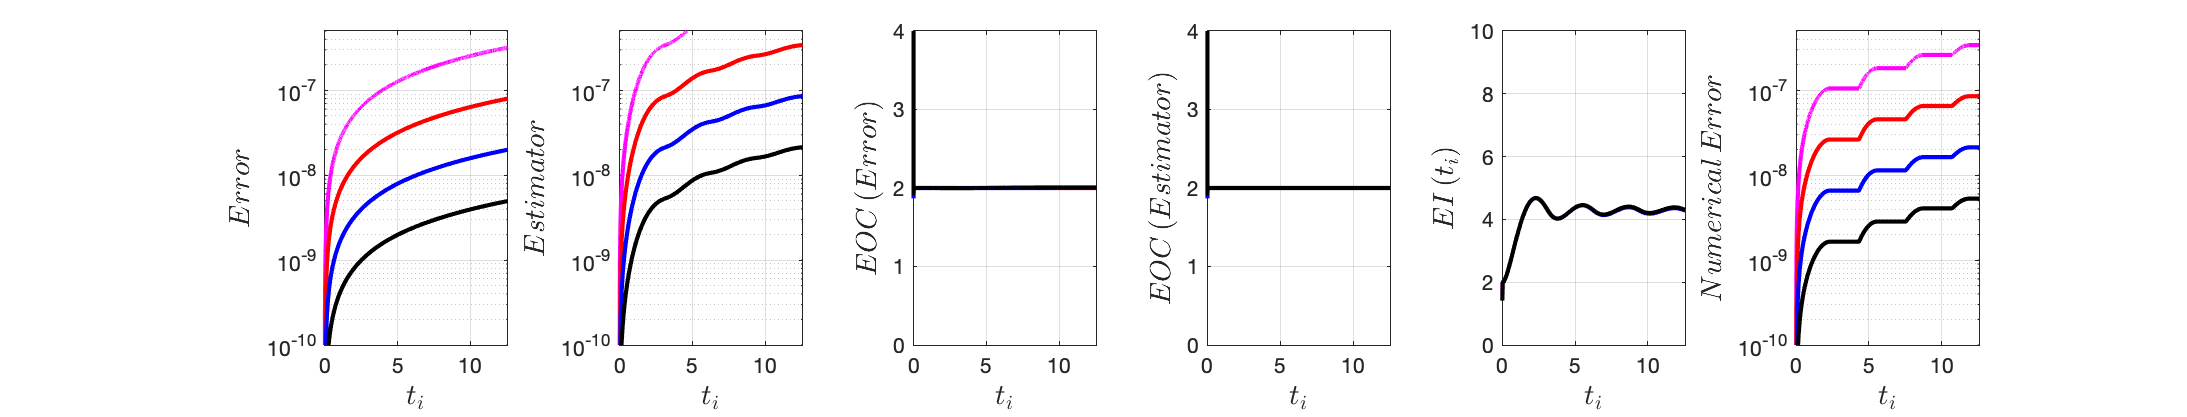
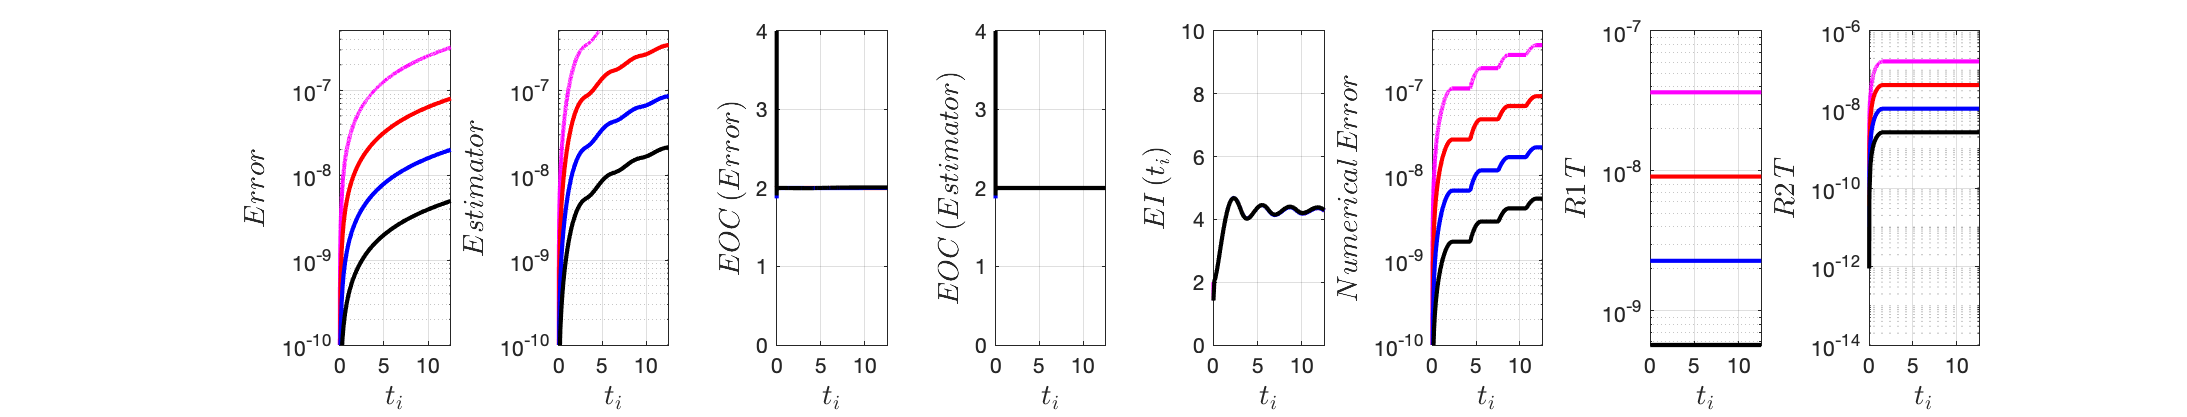
same residuals

diff --git a/temporal_reconstruction_thesis_chapter.tex b/temporal_reconstruction_thesis_chapter.tex
@@ -401,6 +401,15 @@ The reconstructions for $\rec{U}$ and $\rec{V}$ in \cite[\S3.1]{georgoulis2016po
 	\end{equation}
 \end{Defn}
 
+In order to present our reconstructions we  define the space in which they belong. 
+\begin{Defn}[Space of piecewise polynomials]\label{defn_space_pwpoly}
+	Let $\polygs{q}{\qb{t^{n-1},t^n}}{\mathbb{R}}$ denote the space of real-valued polynomials of degree $q$ in the interval $\qb{t^{n-1}, t^n}$.  Then, we define 
+	\begin{equation}
+	\mathbb{V}_q:=\bracegs{w:\qb{0,T}\rightarrow\mathbb{R}: w|_{\qb{t^{n-1},t^n}}\in \polygs{q}{\qb{t^{n-1},t^n}}{\mathbb{R}}}
+	\end{equation}
+	to be the space of piecewise polynomials of degree $q$.
+\end{Defn}
+
 \begin{Defn}[ ]\label{defn_our_rec3}
 	The reconstruction, $\qp{\rec{U},\rec{V}}$ of the numerical solution $\qp{U,V}$ of (\ref{eq_harmonic_discretization}) on a staggered grid consists of the unique functions $\rec{U}\in \mathbb{V}_2$, $\rec{V}\in\mathbb{V}_3$ satisfying
 	\begin{equation}\label{eq_rec3_conds}
@@ -420,19 +429,11 @@ The reconstructions for $\rec{U}$ and $\rec{V}$ in \cite[\S3.1]{georgoulis2016po
 	c_{0,v} &= V^{n-1/2},\\
 	c_{1,v}&=-\rec{U}\qp{t^{n-1/2}}\\
 	c_{2,v}&=\frac{1}{\Delta t}\qp{\rec{U}\qp{t^{n+1/2}}-\rec{U}\qp{t^{n-1/2}}}+\frac{3}{\Delta t^2}\qp{V^{n+1/2}-V^{n-1/2}+\Delta t \rec{U}\qp{t^{n-1/2}}}\\
-	c_{3,v}&=-\frac{1}{\Delta t^2}\qp{\rec{U}\qp{t^{n+1/2}}}-\frac{2}{\Delta t^3}\qp{V^{n+1/2}-V^{n-1/2}+\Delta t \rec{U}\qp{t^{n-1/2}}} 
+	c_{3,v}&=-\frac{1}{\Delta t^2}\qp{\rec{U}\qp{t^{n+1/2}}-\rec{U}\qp{t^{n-1/2}}}-\frac{2}{\Delta t^3}\qp{V^{n+1/2}-V^{n-1/2}+\Delta t \rec{U}\qp{t^{n-1/2}}} 
 	\end{aligned}
 	\end{equation}
 \end{Defn}
 
- In order to present our reconstructions we  define the space in which they belong. 
-  \begin{Defn}[Space of piecewise polynomials]\label{defn_space_pwpoly}
- 	Let $\polygs{q}{\qb{t^{n-1},t^n}}{\mathbb{R}}$ denote the space of real-valued polynomials of degree $q$ in the interval $\qb{t^{n-1}, t^n}$.  Then, we define 
- 	\begin{equation}
- 	\mathbb{V}_q:=\bracegs{w:\qb{0,T}\rightarrow\mathbb{R}: w|_{\qb{t^{n-1},t^n}}\in \polygs{q}{\qb{t^{n-1},t^n}}{\mathbb{R}}}
- 	\end{equation}
- 	to be the space of piecewise polynomials of degree $q$.
- \end{Defn}
  
 \begin{Defn}[ ]\label{defn_our_rec}
 	The reconstruction, $\qp{\rec{U},\rec{V}}$ of the numerical solution $\qp{U,V}$ of (\ref{eq_harmonic_discretization}) consists of the unique functions $\rec{U}\in \mathbb{V}_2$, $\rec{V}\in\mathbb{V}_2$ satisfying
@@ -769,6 +770,7 @@ V^{1/2} &= \frac{1}{\Delta t}\qp{U^1-U^0}.
 */
 \subsection{Test results}\label{sec:num_exp}
 \subsection*{$u_0=0, v_0= 1$}
+\/*
 \begin{figure}[H]
 	\hspace{-3cm}
 	%\centering
@@ -792,11 +794,11 @@ V^{1/2} &= \frac{1}{\Delta t}\qp{U^1-U^0}.
 	\caption{Paper rec. (from left to right) Error $e$ given by (\ref{eq_error_eR}), Estimator $\eta_1$ given by \ref{eq_bound_test}, EOC error, EOC Estimator, Effectivity Index.}
 	\label{fig_all_in_one_paperrec_u0_v10}
 \end{figure}
-
+*/
 \begin{figure}[H]
 	\hspace{-3cm}
 	%\centering
-	\includegraphics[scale=0.55]{fig_LeapFrogplots_1x5_sin_IC_harmonic_u0_v10_paperrec_poly}	
+	\includegraphics[scale=0.55]{fig_LeapFrogplots_1x5_sin_IC_harmonic_u0_v10_paperrec_poly_our_res}	
 	\caption{Polynomial paper rec. (from left to right) Error $e$ given by (\ref{eq_error_eR}), Estimator $\eta_1$ given by \ref{eq_bound_test}, EOC error, EOC Estimator, Effectivity Index.}
 	\label{fig_all_in_one_paperrec_poly_u0_v10}
 \end{figure}
@@ -809,7 +811,7 @@ V^{1/2} &= \frac{1}{\Delta t}\qp{U^1-U^0}.
 	\label{fig_all_in_one_paperrec_poly_tristan_u0_v10}
 \end{figure}
 \subsection*{$u_0=0.1, v_0= 0.9$}
-
+\/*
 \begin{figure}[H]
 	\hspace{-3cm}
 	%\centering
@@ -832,11 +834,12 @@ V^{1/2} &= \frac{1}{\Delta t}\qp{U^1-U^0}.
 	\caption{Paper rec. (from left to right) Error $e$ given by (\ref{eq_error_eR}), Estimator $\eta_1$ given by \ref{eq_bound_test},  EOC error, EOC Estimator, Effectivity Index.}
 	\label{fig_all_in_one_paperrec_u01_v09}
 \end{figure}
+*/
 
 \begin{figure}[H]
 	\hspace{-3cm}
 	%\centering
-	\includegraphics[scale=0.55]{fig_LeapFrogplots_1x5_sin_IC_harmonic_u1_v9_paperrec_poly}	
+	\includegraphics[scale=0.55]{fig_LeapFrogplots_1x5_sin_IC_harmonic_u1_v9_paperrec_poly_our_res}	
 	\caption{Polynomial paper rec. (from left to right) Error $e$ given by (\ref{eq_error_eR}), Estimator $\eta_1$ given by \ref{eq_bound_test},  EOC error, EOC Estimator, Effectivity Index.}
 	\label{fig_all_in_one_paperrec_poly_u01_v09}
 \end{figure}
@@ -850,6 +853,7 @@ V^{1/2} &= \frac{1}{\Delta t}\qp{U^1-U^0}.
 
 
 \subsection*{$u_0=0.2, v_0= 0.8$}
+\/*
 \begin{figure}[H]
 	\hspace{-3cm}
 	%\centering
@@ -872,10 +876,11 @@ V^{1/2} &= \frac{1}{\Delta t}\qp{U^1-U^0}.
 	\caption{Paper rec. (from left to right) Error $e$ given by (\ref{eq_error_eR}), Estimator $\eta_1$ given by \ref{eq_bound_test},   EOC error, EOC Estimator, Effectivity Index.}
 	\label{fig_all_in_one_paperrec_u02_v08}
 \end{figure}
+*/
 \begin{figure}[H]
 	\hspace{-3cm}
 	%\centering
-	\includegraphics[scale=0.55]{fig_LeapFrogplots_1x5_sin_IC_harmonic_u2_v8_paperrec_poly}	
+	\includegraphics[scale=0.55]{fig_LeapFrogplots_1x5_sin_IC_harmonic_u2_v8_paperrec_poly_our_res}	
 	\caption{Polynomial paper rec. (from left to right) Error $e$ given by (\ref{eq_error_eR}), Estimator $\eta_1$ given by \ref{eq_bound_test},   EOC error, EOC Estimator, Effectivity Index.}
 	\label{fig_all_in_one_paperrec_poly_u02_v08}
 \end{figure}
@@ -889,6 +894,7 @@ V^{1/2} &= \frac{1}{\Delta t}\qp{U^1-U^0}.
 \end{figure}
 
 \subsection*{$u_0=0.3, v_0= 0.7$}
+\/*
 \begin{figure}[H]
 	\hspace{-3cm}
 	%\centering
@@ -910,10 +916,11 @@ V^{1/2} &= \frac{1}{\Delta t}\qp{U^1-U^0}.
 	\caption{Paper rec. (from left to right) Error $e$ given by (\ref{eq_error_eR}), Estimator $\eta_1$ given by \ref{eq_bound_test}, EOC error, EOC Estimator, Effectivity Index.}
 	\label{fig_all_in_one_paperrec_u03_v07}
 \end{figure}
+*/
 \begin{figure}[H]
 	\hspace{-3cm}
 	%\centering
-	\includegraphics[scale=0.55]{fig_LeapFrogplots_1x5_sin_IC_harmonic_u3_v7_paperrec_poly}	
+	\includegraphics[scale=0.55]{fig_LeapFrogplots_1x5_sin_IC_harmonic_u3_v7_paperrec_poly_our_res}	
 	\caption{Polynomial paper rec. (from left to right) Error $e$ given by (\ref{eq_error_eR}), Estimator $\eta_1$ given by \ref{eq_bound_test},   EOC error, EOC Estimator, Effectivity Index.}
 	\label{fig_all_in_one_paperrec_polynomial_u03_v07}
 \end{figure}
@@ -927,6 +934,7 @@ V^{1/2} &= \frac{1}{\Delta t}\qp{U^1-U^0}.
 \end{figure}
 
 \subsection*{$u_0=0.4, v_0= 0.6$}
+\/*
 \begin{figure}[H]
 	\hspace{-3cm}
 	%\centering
@@ -948,10 +956,11 @@ V^{1/2} &= \frac{1}{\Delta t}\qp{U^1-U^0}.
 	\caption{Paper rec. (from left to right) Error $e$ given by (\ref{eq_error_eR}), Estimator $\eta_1$ given by \ref{eq_bound_test},  EOC error, EOC Estimator, Effectivity Index.}
 	\label{fig_all_in_one_paperrec_u04_v06}
 \end{figure}
+*/
 \begin{figure}[H]
 	\hspace{-3cm}
 	%\centering
-	\includegraphics[scale=0.55]{fig_LeapFrogplots_1x5_sin_IC_harmonic_u4_v6_paperrec_poly}	
+	\includegraphics[scale=0.55]{fig_LeapFrogplots_1x5_sin_IC_harmonic_u4_v6_paperrec_poly_our_res}	
 	\caption{Polynomial paper rec. (from left to right) Error $e$ given by (\ref{eq_error_eR}), Estimator $\eta_1$ given by \ref{eq_bound_test},  EOC error, EOC Estimator, Effectivity Index.}
 	\label{fig_all_in_one_paperrec_poly_u04_v06}
 \end{figure}
@@ -965,6 +974,7 @@ V^{1/2} &= \frac{1}{\Delta t}\qp{U^1-U^0}.
 \end{figure}
 
 \subsection*{$u_0=0.5, v_0= 0.5$}
+\/*
 \begin{figure}[H]
 	\hspace{-3cm}
 	%\centering
@@ -986,10 +996,11 @@ V^{1/2} &= \frac{1}{\Delta t}\qp{U^1-U^0}.
 	\caption{Paper rec. (from left to right) Error $e$ given by (\ref{eq_error_eR}), Estimator $\eta_1$ given by \ref{eq_bound_test},   EOC error, EOC Estimator, Effectivity Index.}
 	\label{fig_all_in_one_paperrec_u05_v05}
 \end{figure}
+*/
 \begin{figure}[H]
 	\hspace{-3cm}
 	%\centering
-	\includegraphics[scale=0.55]{fig_LeapFrogplots_1x5_sin_IC_harmonic_u5_v5_paperrec_poly}	
+	\includegraphics[scale=0.55]{fig_LeapFrogplots_1x5_sin_IC_harmonic_u5_v5_paperrec_poly_our_res}	
 	\caption{Polynomial paper rec. (from left to right) Error $e$ given by (\ref{eq_error_eR}), Estimator $\eta_1$ given by \ref{eq_bound_test},   EOC error, EOC Estimator, Effectivity Index.}
 	\label{fig_all_in_one_paperrec_poly_u05_v05}
 \end{figure}
@@ -1002,6 +1013,7 @@ V^{1/2} &= \frac{1}{\Delta t}\qp{U^1-U^0}.
 \end{figure}
 
 \subsection*{$u_0=0.6, v_0= 0.4$}
+\/*
 \begin{figure}[H]
 	\hspace{-3cm}
 	%\centering
@@ -1023,10 +1035,11 @@ V^{1/2} &= \frac{1}{\Delta t}\qp{U^1-U^0}.
 	\caption{Paper rec. (from left to right) Error $e$ given by (\ref{eq_error_eR}), Estimator $\eta_1$ given by \ref{eq_bound_test},  EOC error, EOC Estimator, Effectivity Index.}
 	\label{fig_all_in_one_paperrec_u06_v04}
 \end{figure}
+*/
 \begin{figure}[H]
 	\hspace{-3cm}
 	%\centering
-	\includegraphics[scale=0.55]{fig_LeapFrogplots_1x5_sin_IC_harmonic_u6_v4_paperrec_poly}	
+	\includegraphics[scale=0.55]{fig_LeapFrogplots_1x5_sin_IC_harmonic_u6_v4_paperrec_poly_our_res}	
 	\caption{Polynomial paper rec. (from left to right) Error $e$ given by (\ref{eq_error_eR}), Estimator $\eta_1$ given by \ref{eq_bound_test},  EOC error, EOC Estimator, Effectivity Index.}
 	\label{fig_all_in_one_paperrec_poly_u06_v04}
 \end{figure}
@@ -1040,6 +1053,7 @@ V^{1/2} &= \frac{1}{\Delta t}\qp{U^1-U^0}.
 \end{figure}
 
 \subsection*{$u_0=0.7, v_0= 0.3$}
+\/*
 \begin{figure}[H]
 	\hspace{-3cm}
 	%\centering
@@ -1061,10 +1075,11 @@ V^{1/2} &= \frac{1}{\Delta t}\qp{U^1-U^0}.
 	\caption{Paper rec. (from left to right) Error $e$ given by (\ref{eq_error_eR}), Estimator $\eta_1$ given by \ref{eq_bound_test},   EOC error, EOC Estimator, Effectivity Index.}
 	\label{fig_all_in_one_paperrec_u07_v03}
 \end{figure}
+*/
 \begin{figure}[H]
 	\hspace{-3cm}
 	%\centering
-	\includegraphics[scale=0.55]{fig_LeapFrogplots_1x5_sin_IC_harmonic_u7_v3_paperrec_poly}	
+	\includegraphics[scale=0.55]{fig_LeapFrogplots_1x5_sin_IC_harmonic_u7_v3_paperrec_poly_our_res}	
 	\caption{Polynomial paper rec. (from left to right) Error $e$ given by (\ref{eq_error_eR}), Estimator $\eta_1$ given by \ref{eq_bound_test},   EOC error, EOC Estimator, Effectivity Index.}
 	\label{fig_all_in_one_paperrec_poly_u07_v03}
 \end{figure}
@@ -1078,6 +1093,7 @@ V^{1/2} &= \frac{1}{\Delta t}\qp{U^1-U^0}.
 \end{figure}
 
 \subsection*{$u_0=0.8, v_0= 0.2$}
+\/*
 \begin{figure}[H]
 	\hspace{-3cm}
 	%\centering
@@ -1099,10 +1115,11 @@ V^{1/2} &= \frac{1}{\Delta t}\qp{U^1-U^0}.
 	\caption{Paper rec. (from left to right) Error $e$ given by (\ref{eq_error_eR}), Estimator $\eta_1$ given by \ref{eq_bound_test},   EOC error, EOC Estimator, Effectivity Index.}
 	\label{fig_all_in_one_paperrec_u08_v02}
 \end{figure}
+*/
 \begin{figure}[H]
 	\hspace{-3cm}
 	%\centering
-	\includegraphics[scale=0.55]{fig_LeapFrogplots_1x5_sin_IC_harmonic_u8_v2_paperrec_poly}	
+	\includegraphics[scale=0.55]{fig_LeapFrogplots_1x5_sin_IC_harmonic_u8_v2_paperrec_poly_our_res}	
 	\caption{Polynomial paper rec. (from left to right) Error $e$ given by (\ref{eq_error_eR}), Estimator $\eta_1$ given by \ref{eq_bound_test},   EOC error, EOC Estimator, Effectivity Index.}
 	\label{fig_all_in_one_paperrec_poly_u08_v02}
 \end{figure}
@@ -1116,6 +1133,7 @@ V^{1/2} &= \frac{1}{\Delta t}\qp{U^1-U^0}.
 
 
 \subsection*{$u_0=0.9, v_0= 0.1$}
+\/*
 \begin{figure}[H]
 	\hspace{-3cm}
 	%\centering
@@ -1137,10 +1155,11 @@ V^{1/2} &= \frac{1}{\Delta t}\qp{U^1-U^0}.
 	\caption{Paper rec. (from left to right) Error $e$ given by (\ref{eq_error_eR}), Estimator $\eta_1$ given by \ref{eq_bound_test},   EOC error, EOC Estimator, Effectivity Index.}
 	\label{fig_all_in_one_paperrec_u09_v01}
 \end{figure}
+*/
 \begin{figure}[H]
 	\hspace{-3cm}
 	%\centering
-	\includegraphics[scale=0.55]{fig_LeapFrogplots_1x5_sin_IC_harmonic_u9_v1_paperrec_poly}	
+	\includegraphics[scale=0.55]{fig_LeapFrogplots_1x5_sin_IC_harmonic_u9_v1_paperrec_poly_our_res}	
 	\caption{Polynomial paper rec. (from left to right) Error $e$ given by (\ref{eq_error_eR}), Estimator $\eta_1$ given by \ref{eq_bound_test},   EOC error, EOC Estimator, Effectivity Index.}
 	\label{fig_all_in_one_paperrec_poly_u09_v01}
 \end{figure}
@@ -1154,6 +1173,7 @@ V^{1/2} &= \frac{1}{\Delta t}\qp{U^1-U^0}.
 
 
 \subsection*{$u_0=1.0, v_0= 0$}
+\/*
 \begin{figure}[H]
 	\hspace{-3cm}
 	%\centering
@@ -1175,10 +1195,11 @@ V^{1/2} &= \frac{1}{\Delta t}\qp{U^1-U^0}.
 	\caption{Paper rec. (from left to right) Error $e$ given by (\ref{eq_error_eR}), Estimator $\eta_1$ given by \ref{eq_bound_test}, EOC error, EOC Estimator, Effectivity Index.}
 	\label{fig_all_in_one_paperrec_u10_v1}
 \end{figure}
+*/
 \begin{figure}[H]
 	\hspace{-3cm}
 	%\centering
-	\includegraphics[scale=0.55]{fig_LeapFrogplots_1x5_sin_IC_harmonic_u10_v0_paperrec_poly}	
+	\includegraphics[scale=0.55]{fig_LeapFrogplots_1x5_sin_IC_harmonic_u10_v0_paperrec_poly_our_res}	
 	\caption{Polynomial paper rec. (from left to right) Error $e$ given by (\ref{eq_error_eR}), Estimator $\eta_1$ given by \ref{eq_bound_test}, EOC error, EOC Estimator, Effectivity Index.}
 	\label{fig_all_in_one_paperrec_poly_u10_v1}
 \end{figure}
